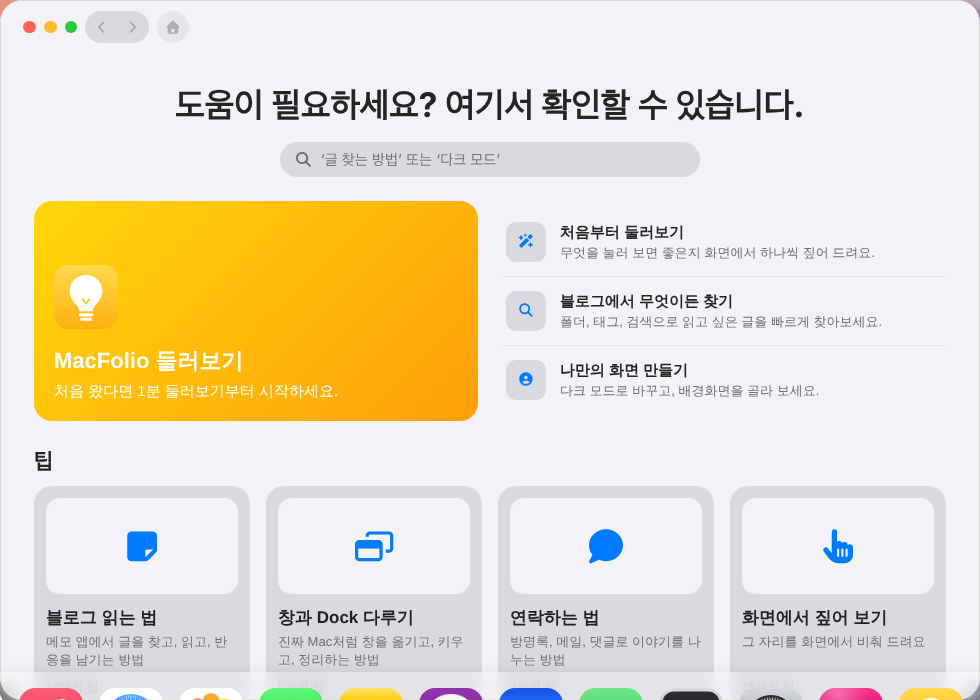
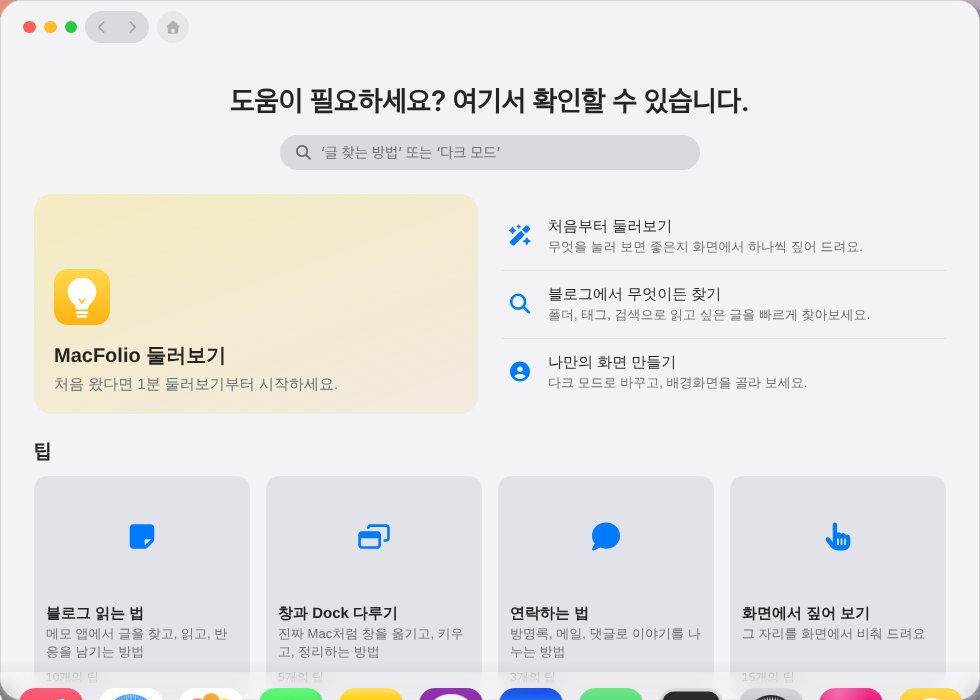
style(tips): 앱 아이콘 모서리를 둥글게 하고 화면을 가볍게
- 카드·머리·둘러보기 카드의 앱 아이콘 그림에 모서리 반경
- 제목 굵기와 크기를 줄이고, 둘러보기 카드는 옅은 노란빛에 검은 글씨로
- 카드 안의 회색 상자, 목록·절 아이콘의 회색 타일을 없앰

diff --git a/apps/react/src/apps/tips/Tips.css b/apps/react/src/apps/tips/Tips.css
@@ -85,8 +85,8 @@
 
 .tips-hero-title {
 	margin: var(--space-16) 0 var(--space-16);
-	font-size: var(--text-large-title);
-	font-weight: 700;
+	font-size: var(--text-title1);
+	font-weight: 600;
 	text-align: center;
 }
 
@@ -153,6 +153,7 @@
 .tips-result strong,
 .tips-feature-list strong {
 	font-size: var(--text-subhead);
+	font-weight: 500;
 }
 
 .tips-result small,
@@ -185,23 +186,30 @@
 	padding: var(--space-20);
 	border: 0;
 	border-radius: var(--radius-18);
-	background: linear-gradient(135deg, var(--color-system-yellow), var(--color-system-orange));
-	color: var(--color-white);
+	background: linear-gradient(
+		160deg,
+		color-mix(in srgb, var(--color-system-yellow) 22%, transparent),
+		color-mix(in srgb, var(--color-system-orange) 10%, transparent)
+	);
+	color: var(--color-label);
 	text-align: left;
 	cursor: pointer;
 }
 
 .tips-feature-badge img {
-	width: 64px;
-	height: 64px;
+	width: 56px;
+	height: 56px;
 	margin-bottom: var(--space-8);
+	border-radius: var(--radius-14);
 }
 
 .tips-feature-card strong {
-	font-size: var(--text-title2);
+	font-size: var(--text-title3);
+	font-weight: 600;
 }
 
 .tips-feature-card span {
+	color: var(--color-secondary-label);
 	font-size: var(--text-subhead);
 }
 
@@ -231,11 +239,10 @@
 .tips-feature-list .tips-feature-icon {
 	display: inline-grid;
 	flex: none;
-	width: 40px;
-	height: 40px;
-	border-radius: var(--radius-10);
-	background-color: var(--color-system-fill);
+	width: 28px;
+	height: 28px;
 	color: var(--color-control-accent);
+	font-size: var(--text-title3);
 	place-items: center;
 }
 
@@ -246,19 +253,19 @@
 
 .tips-heading {
 	margin: var(--space-24) 0 var(--space-12);
-	font-size: var(--text-title2);
-	font-weight: 700;
+	font-size: var(--text-title3);
+	font-weight: 600;
 }
 
 .tips-heading-large {
-	font-size: var(--text-title1);
+	font-size: var(--text-title2);
 }
 
 .tips-subheading {
 	margin: 0 0 var(--space-12);
 	color: var(--color-secondary-label);
-	font-size: var(--text-body);
-	font-weight: 600;
+	font-size: var(--text-subhead);
+	font-weight: 500;
 }
 
 /* 회색 둥근 카드 */
@@ -274,40 +281,45 @@
 .tips-card {
 	display: flex;
 	flex-direction: column;
-	gap: var(--space-4);
+	gap: var(--space-2);
 	width: 100%;
 	height: 100%;
-	padding: var(--space-12);
+	padding: 0 0 var(--space-12);
+	overflow: hidden;
 	border: 0;
-	border-radius: var(--radius-18);
-	background-color: var(--color-system-fill);
+	border-radius: var(--radius-14);
+	background-color: var(--color-tertiary-system-fill);
 	color: inherit;
 	text-align: left;
 	cursor: pointer;
 }
 
 .tips-card:hover {
-	background-color: var(--color-secondary-system-fill);
+	background-color: var(--color-system-fill);
+}
+
+.tips-card > :not(.tips-card-art) {
+	padding-inline: var(--space-12);
 }
 
 .tips-card-art {
 	display: grid;
-	margin-bottom: var(--space-8);
-	border-radius: var(--radius-14);
-	background-color: var(--color-window-background);
+	margin-bottom: var(--space-4);
 	color: var(--color-control-accent);
-	font-size: var(--text-large-title);
-	aspect-ratio: 2 / 1;
+	font-size: var(--text-title1);
+	aspect-ratio: 16 / 9;
 	place-items: center;
 }
 
 .tips-card-art img {
-	width: 56px;
-	height: 56px;
+	width: 52px;
+	height: 52px;
+	border-radius: var(--radius-14);
 }
 
 .tips-card strong {
-	font-size: var(--text-body);
+	font-size: var(--text-subhead);
+	font-weight: 600;
 }
 
 .tips-card span:not(.tips-card-art) {
@@ -344,15 +356,16 @@
 	border: 0;
 	border-radius: var(--radius-8);
 	background: none;
-	color: var(--color-label);
-	font-size: var(--text-subhead);
+	color: var(--color-secondary-label);
+	font-size: var(--text-footnote);
 	text-align: left;
 	cursor: pointer;
 }
 
 .tips-toc button:hover,
 .tips-toc button.active {
-	background-color: var(--color-system-fill);
+	background-color: var(--color-tertiary-system-fill);
+	color: var(--color-label);
 }
 
 .tips-manual-body {
@@ -371,20 +384,21 @@
 .tips-manual-head h1,
 .tips-spot h1 {
 	margin: 0;
-	font-size: var(--text-large-title);
-	font-weight: 700;
+	font-size: var(--text-title1);
+	font-weight: 600;
 }
 
 .tips-manual-sub {
 	margin: var(--space-4) 0 0;
 	color: var(--color-secondary-label);
-	font-size: var(--text-title3);
+	font-size: var(--text-body);
 }
 
 .tips-manual-icon {
 	flex: none;
-	width: 96px;
-	height: 96px;
+	width: 80px;
+	height: 80px;
+	border-radius: var(--radius-18);
 }
 
 .tips-manual-fa {
@@ -412,24 +426,22 @@
 .tips-manual-section-icon {
 	display: inline-grid;
 	flex: none;
-	width: 36px;
-	height: 36px;
-	border-radius: var(--radius-10);
-	background-color: var(--color-system-fill);
+	width: 24px;
+	height: 24px;
 	color: var(--color-control-accent);
 	place-items: center;
 }
 
 .tips-manual-section h2 {
 	margin: 0 0 var(--space-4);
-	font-size: var(--text-title3);
+	font-size: var(--text-body);
 	font-weight: 600;
 }
 
 .tips-manual-section p {
 	margin: 0;
 	color: var(--color-secondary-label);
-	font-size: var(--text-body);
+	font-size: var(--text-subhead);
 	line-height: 1.6;
 }
 
@@ -526,7 +538,8 @@
 	}
 
 	.tips-manual-icon {
-		width: 64px;
-		height: 64px;
+		width: 56px;
+		height: 56px;
+		border-radius: var(--radius-14);
 	}
 }
